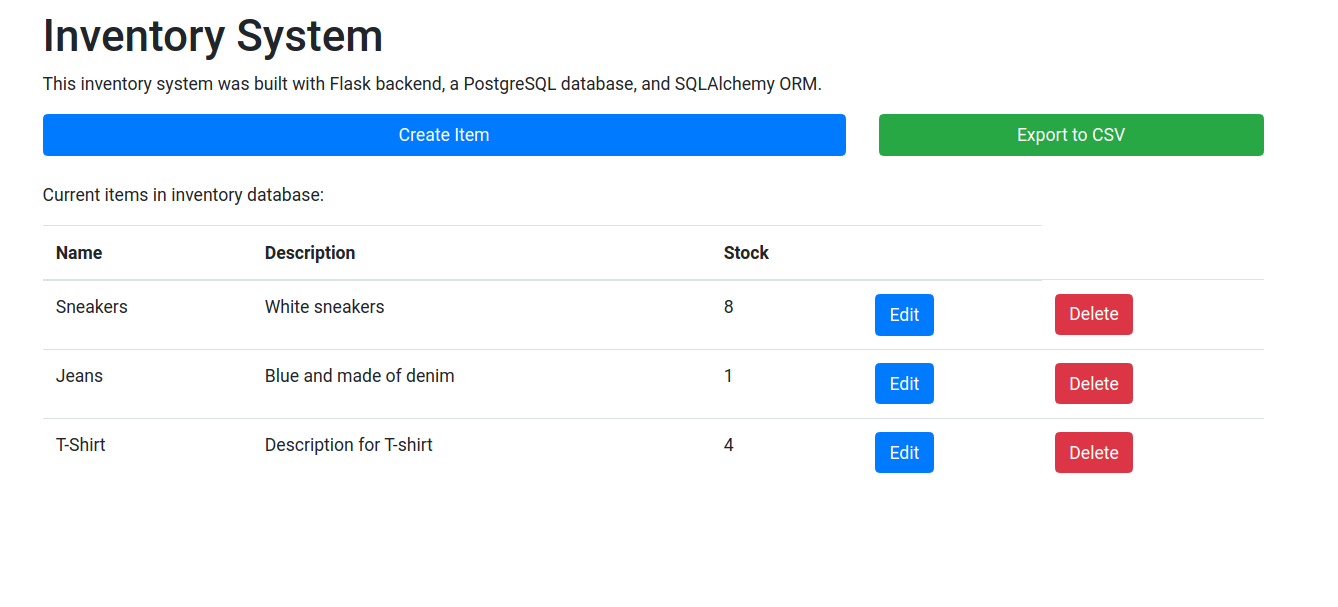
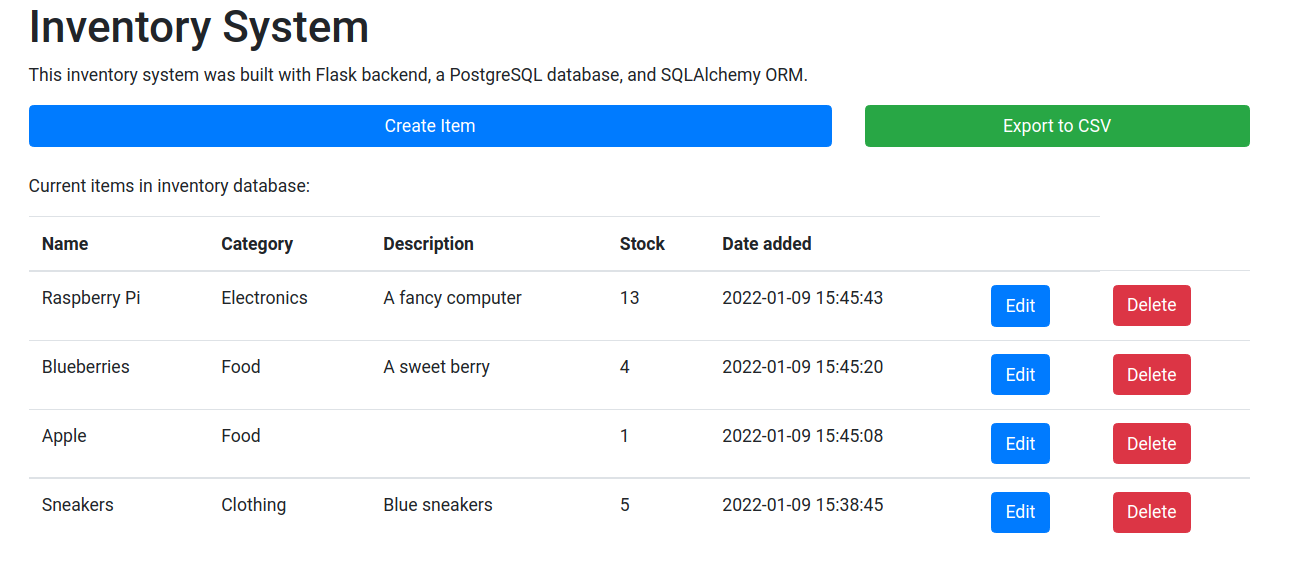
fix: category, screenshots

diff --git a/templates/home.html b/templates/home.html
@@ -37,9 +37,17 @@
 
                             <div class="modal-body">
                                 <div class="form-group">
-                                    <label for="name">New name</label>
-                                    <input type="text" class="form-control" id="name" name="name" value="">
+                                    <label for="name">Name</label>
+                                    <input type="text" class="form-control" id="name" name="name" value="Apple">
                                 </div>
+                                <div class="form-group">
+                                    <label for="type">Category</label>
+                                    <select class="form-control" name="type" id="type">
+                                        <option value="Food" selected>Food</option>
+                                        <option value="Clothing">Clothing</option>
+                                        <option value="Electronics">Electronics</option>
+                                      </select>
+                                  </div>
                                 <div class="form-group">
                                     <label for="name">Description</label>
                                     <input type="text" class="form-control" id="description" name="description"
@@ -75,8 +83,11 @@
             <thead>
                 <tr>
                     <th>Name</th>
+                    <th>Category</th>
                     <th>Description</th>
                     <th>Stock</th>
+                    <th>Date added</th>
+
                     <th></th>
                 </tr>
             </thead>
@@ -85,14 +96,17 @@
                 <tr>
                     <!-- Show data -->
                     <td>{{item.name}}</td>
+                    <td>{{item.type}}</td>
                     <td>{{item.description}}</td>
                     <td>{{item.stock}}</td>
+                    <td>{{item.date.strftime('%Y-%m-%d %H:%M:%S')}}</td>
+
                     <td>
-                        <button type="button" class="btn btn-primary" data-toggle="modal" data-target="#exampleModal">
+                        <button type="button" class="btn btn-primary" data-toggle="modal" data-target={{"#exampleModal"+item.id|string}}>
                             Edit
                         </button>
                         <!-- Modal -->
-                        <div class="modal fade" id="exampleModal" tabindex="-1" role="dialog"
+                        <div class="modal fade" id={{"exampleModal"+item.id|string}} tabindex="-1" role="dialog"
                             aria-labelledby="exampleModalLabel" aria-hidden="true">
                             <div class="modal-dialog" role="document">
                                 <div class="modal-content">
@@ -112,6 +126,15 @@
                                                 <input type="text" class="form-control" id="name" name="name"
                                                     value="{{item.name}}">
                                             </div>
+                                            <div class="form-group">
+                                                <label for="type">Category</label>
+                                                <select class="form-control" name="type" id="type">
+                                                    <option value="Food" {% if item.type == "Food" %} selected {% endif %}>Food</option>
+                                                    <option value="Clothing"  {% if item.type == "Clothing" %} selected {% endif %}>Clothing</option>
+                                                    <option value="Electronics"  {% if item.type == "Electronics" %} selected {% endif %}>Electronics</option>
+                                                  </select>
+                                              </div>
+                                            
                                             <div class="form-group">
                                                 <label for="name">Description</label>
                                                 <input type="text" class="form-control" id="description"
